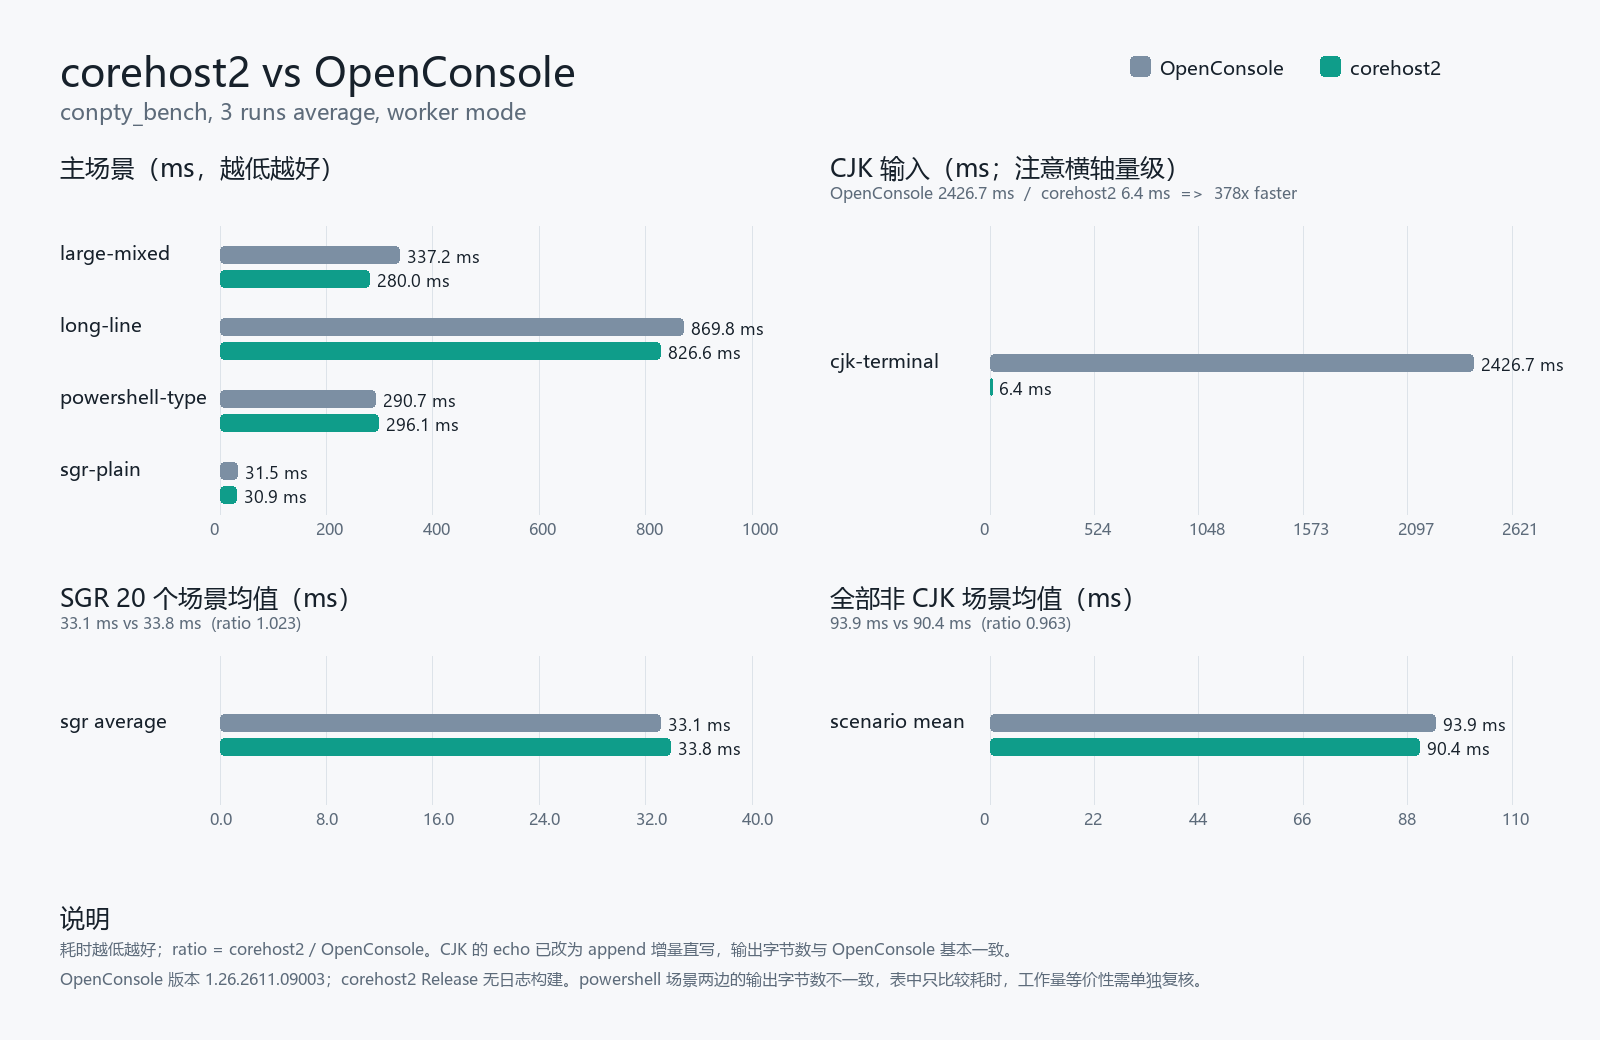
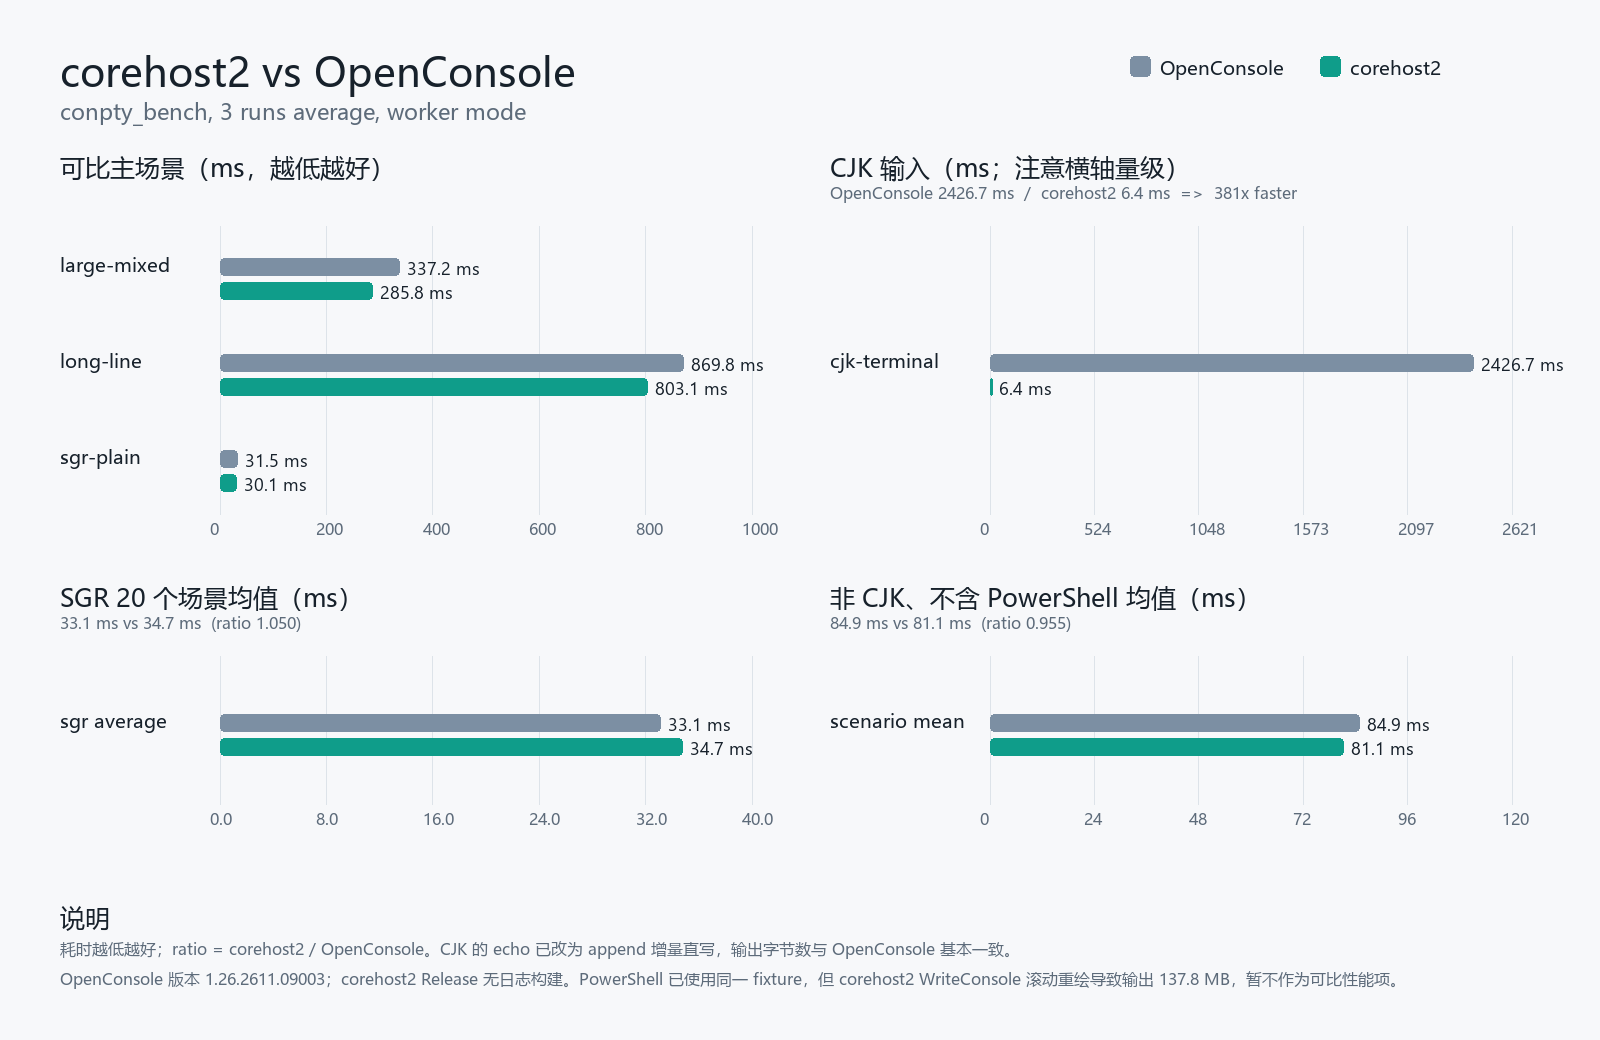
bench(powershell): generate fixture in worker

diff --git a/bench/host_runner.hpp b/bench/host_runner.hpp
@@ -9,6 +9,7 @@
 #include "large_mixed_vt_cjk_output_worker.hpp"
 #include "long_line_three_vt_output_worker.hpp"
 #include "sgr_sequence_matrix_worker.hpp"
+#include "powershell_type_input.hpp"
 #include "win32/wait.hpp"
 
 #include <array>
@@ -146,40 +147,6 @@ inline void copy_host_tree(const std::filesystem::path &host_path, const std::fi
     }
 }
 
-inline constexpr wchar_t powershell_type_input_file_name[] = L"corehost-bench-realistic-type-vt.txt";
-
-inline void generate_powershell_type_input_file(const std::filesystem::path &worker_dir)
-{
-    const auto path = worker_dir / powershell_type_input_file_name;
-    FILE *file = nullptr;
-    if (_wfopen_s(&file, path.c_str(), L"wb") != 0 || !file)
-        print_and_abort("create PowerShell type input file failed\n");
-
-    constexpr size_t line_count = 12000;
-    for (size_t i = 0; i < line_count; ++i)
-    {
-        const char *prefix = "\x1b[32m[build]\x1b[0m ";
-        if (i % 17 == 0)
-            prefix = "\x1b[33mwarning\x1b[0m ";
-        else if (i % 53 == 0)
-            prefix = "\x1b[31merror\x1b[0m ";
-        else if (i % 7 == 0)
-            prefix = "\x1b[36mcompile\x1b[0m ";
-
-        if (std::fprintf(file,
-                         "%sproject\\module\\target_%05zu.cpp : ASCII abcdefghijklmnopqrstuvwxyz 0123456789 "
-                         "\x1b[1m喜欢你 核心终端性能测试\x1b[22m payload payload payload payload\r\n",
-                         prefix, i) < 0)
-        {
-            std::fclose(file);
-            print_and_abort("write PowerShell type input file failed\n");
-        }
-    }
-
-    if (std::fclose(file) != 0)
-        print_and_abort("close PowerShell type input file failed\n");
-}
-
 // Launches the worker process and mirrors its stdout/stderr to this process.
 // The returned string is parsed after the worker exits.
 [[nodiscard]] inline std::string run_worker_process(const std::filesystem::path &worker_exe,
@@ -262,7 +229,7 @@ inline void generate_powershell_type_input_file(const std::filesystem::path &wor
 
     std::filesystem::copy_file(current_exe_path(), worker_exe, std::filesystem::copy_options::overwrite_existing);
     copy_host_tree(host_path, worker_dir);
-    generate_powershell_type_input_file(worker_dir);
+    write_powershell_type_input_file(worker_dir / powershell_type_input_file_name);
 
     auto output = run_worker_process(worker_exe, worker_dir, label, scenario_filter);
     auto scenarios = parse_worker_results(output);

diff --git a/benchmark_compare.py b/benchmark_compare.py
@@ -72,7 +72,11 @@ with OUT_CSV.open("w", newline="", encoding="utf-8-sig") as handle:
 
 by_name = {r["scenario"]: r for r in summary}
 sgr = [r for r in summary if r["scenario"].startswith("sgr-")]
-non_cjk = [r for r in summary if r["scenario"] != "cjk-terminal-input"]
+non_cjk = [
+    r
+    for r in summary
+    if r["scenario"] not in ("cjk-terminal-input", "powershell-type-realistic-build-output")
+]
 sgr_oc = statistics.mean(r["oc_avg_ms"] for r in sgr)
 sgr_ch = statistics.mean(r["ch_avg_ms"] for r in sgr)
 all_oc = statistics.mean(r["oc_avg_ms"] for r in non_cjk)
@@ -143,10 +147,10 @@ draw.rounded_rectangle((1320, 56, 1340, 76), radius=4, fill=ch_color)
 text(1350, 54, "corehost2", font_label, fg)
 
 main_items = []
-for scenario, label in SCENARIOS[:4]:
+for scenario, label in (SCENARIOS[0], SCENARIOS[1], SCENARIOS[3]):
     r = by_name[scenario]
     main_items.append((label, r["oc_avg_ms"], r["ch_avg_ms"]))
-bar_panel(60, 150, 720, 390, "主场景（ms，越低越好）", main_items, 1000)
+bar_panel(60, 150, 720, 390, "可比主场景（ms，越低越好）", main_items, 1000)
 
 cjk = by_name["cjk-terminal-input"]
 bar_panel(
@@ -176,9 +180,9 @@ bar_panel(
     580,
     710,
     250,
-    "全部非 CJK 场景均值（ms）",
+    "非 CJK、不含 PowerShell 均值（ms）",
     [("scenario mean", all_oc, all_ch)],
-    110,
+    120,
     f"{all_oc:.1f} ms vs {all_ch:.1f} ms  (ratio {all_ch / all_oc:.3f})",
 )
 
@@ -193,7 +197,7 @@ text(
 text(
     60,
     968,
-    "OpenConsole 版本 1.26.2611.09003；corehost2 Release 无日志构建。powershell 场景两边的输出字节数不一致，表中只比较耗时，工作量等价性需单独复核。",
+    "OpenConsole 版本 1.26.2611.09003；corehost2 Release 无日志构建。PowerShell 已使用同一 fixture，但 corehost2 WriteConsole 滚动重绘导致输出 137.8 MB，暂不作为可比性能项。",
     font_small,
     muted,
 )

diff --git a/bench/powershell_type_input.hpp b/bench/powershell_type_input.hpp
@@ -1,0 +1,44 @@
+#pragma once
+
+#include "common.hpp"
+
+#include <cstdio>
+#include <filesystem>
+
+namespace bench
+{
+
+inline constexpr wchar_t powershell_type_input_file_name[] = L"corehost-bench-realistic-type-vt.txt";
+
+inline void write_powershell_type_input_file(const std::filesystem::path &path)
+{
+    FILE *file = nullptr;
+    if (_wfopen_s(&file, path.c_str(), L"wb") != 0 || !file)
+        print_and_abort("create PowerShell type input file failed\n");
+
+    constexpr size_t line_count = 12000;
+    for (size_t i = 0; i < line_count; ++i)
+    {
+        const char *prefix = "\x1b[32m[build]\x1b[0m ";
+        if (i % 17 == 0)
+            prefix = "\x1b[33mwarning\x1b[0m ";
+        else if (i % 53 == 0)
+            prefix = "\x1b[31merror\x1b[0m ";
+        else if (i % 7 == 0)
+            prefix = "\x1b[36mcompile\x1b[0m ";
+
+        if (std::fprintf(file,
+                         "%sproject\\module\\target_%05zu.cpp : ASCII abcdefghijklmnopqrstuvwxyz 0123456789 "
+                         "\x1b[1m喜欢你 核心终端性能测试\x1b[22m payload payload payload payload\r\n",
+                         prefix, i) < 0)
+        {
+            std::fclose(file);
+            print_and_abort("write PowerShell type input file failed\n");
+        }
+    }
+
+    if (std::fclose(file) != 0)
+        print_and_abort("close PowerShell type input file failed\n");
+}
+
+} // namespace bench

diff --git a/bench/powershell_type_realistic_build_output_test.hpp b/bench/powershell_type_realistic_build_output_test.hpp
@@ -5,6 +5,9 @@
 // Get-Content so this scenario exercises the shell's line/object output path.
 
 #include "conpty_session.hpp"
+#include "powershell_type_input.hpp"
+
+#include <filesystem>
 
 namespace bench
 {
@@ -14,6 +17,7 @@ inline constexpr std::string_view powershell_type_marker = "__COREHOST_BENCH_POW
 [[nodiscard]] inline scenario_result run_powershell_type_realistic_build_output(std::string host, std::string name,
                                                                                 std::chrono::seconds timeout)
 {
+    write_powershell_type_input_file(std::filesystem::current_path() / powershell_type_input_file_name);
     const auto command =
         L"powershell.exe -NoLogo -NoProfile -ExecutionPolicy Bypass -Command "
         L"\"$OutputEncoding = [Console]::OutputEncoding = [Text.Encoding]::UTF8; "

diff --git a/benchmark_openconsole_vs_corehost2.md b/benchmark_openconsole_vs_corehost2.md
@@ -2,7 +2,7 @@
 
 测试日期：2026-11-17  
 测试机：当前 `C:\` 工作机，Windows Terminal 1.24 环境  
[2 lines of base64/hex data omitted]
 
 ## 被测二进制
 
@@ -11,7 +11,7 @@
 | 路径 | `C:\1\OpenConsole.exe` | `build-nolog\Release\corehost2.exe` |
 | 版本 | 1.26.2611.09003 / 1.26.261109003-preview | 本地 Release 无日志构建 |
 | 大小 | 1,091,424 B | 4,855,296 B |
[2 lines of base64/hex data omitted]
 
 ## 方法
 
@@ -36,44 +36,46 @@ cd C:\1\bench-compare-ocworker
 
 | 场景 | OpenConsole 平均（min-max） | corehost2 平均（min-max） | corehost2 / OpenConsole |
 |---|---:|---:|---:|
-| large-mixed | 337.2 ms（321.6-348.7） | **280.0 ms**（256.8-316.9） | **0.830** |
-| long-line | 869.8 ms（806.2-993.9） | **826.6 ms**（799.2-866.3） | **0.950** |
-| powershell-type | 290.7 ms（283.2-303.3） | 296.1 ms（279.8-323.9） | 1.018* |
-| sgr-plain | 31.5 ms（31.2-31.9） | **30.9 ms**（30.3-31.8） | **0.980** |
-| cjk-terminal-input | 2,426.7 ms（2,416.4-2,446.0） | **6.4 ms**（6.4-6.5） | **0.003** |
-
-\* PowerShell 场景两边输出字节数不一致，见下方注意事项；该行只比较耗时。
+| large-mixed | 337.2 ms（321.6-348.7） | **285.8 ms**（258.4-315.3） | **0.848** |
+| long-line | 869.8 ms（806.2-993.9） | **803.1 ms**（791.2-809.9） | **0.923** |
+| powershell-type | 1,756.0 ms（1,682.7-1,802.4） | 2,418.6 ms（2,284.8-2,538.7） | N/A* |
+| sgr-plain | 31.5 ms（31.2-31.9） | **30.1 ms**（29.1-30.9） | **0.955** |
+| cjk-terminal-input | 2,426.7 ms（2,416.4-2,446.0） | **6.4 ms**（6.3-6.4） | **0.003** |
 
 ### 主要观察
 
-1. **large-mixed：corehost2 快约 17%**  
-   337.2 → 280.0 ms，ratio 0.830。
+1. **large-mixed：corehost2 快约 15%**  
+   337.2 → 285.8 ms，ratio 0.848。
 
-2. **long-line：corehost2 快约 5%**  
-   869.8 → 826.6 ms，ratio 0.950。三次波动较大（799-866 ms）。
+2. **long-line：corehost2 快约 7.7%**  
+   869.8 → 803.1 ms，ratio 0.923。三次波动较大（791-810 ms）。
 
-3. **sgr-plain：corehost2 快约 2%**  
-   31.5 → 30.9 ms，ratio 0.980。
+3. **powershell-type：不可作为性能项**  
+   OpenConsole 2.06 MB / 1.756 s；corehost2 137.8 MB / 2.419 s。  
+   同一 fixture 下 corehost2 触发了 WriteConsole 滚动全屏重绘，输出工作量不等价。
 
-4. **20 个 SGR 场景均值：corehost2 慢约 2.3%**  
-   OpenConsole 33.06 ms，corehost2 33.83 ms，ratio 1.023。  
-   各 SGR 场景 ratio 约 0.95-1.07；不是所有 SGR 都慢，但整体略偏慢。
+4. **sgr-plain：corehost2 快约 4.5%**  
+   31.5 → 30.1 ms，ratio 0.955。
 
-5. **cjk-terminal-input：corehost2 快约 378 倍**  
+5. **20 个 SGR 场景均值：corehost2 慢约 5%**  
+   OpenConsole 33.06 ms，corehost2 34.72 ms，ratio 1.050。  
+   各 SGR 场景 ratio 约 0.95-1.07；不是所有 SGR 都慢，但整体偏慢。
+
+6. **cjk-terminal-input：corehost2 快约 381 倍**  
    OpenConsole 2,426.7 ms，corehost2 6.4 ms。  
    这仍然包含真实的 cooked line input / echo 语义，不是靠跳过输入处理得到的。
 
-6. **全部非 CJK 场景的未加权均值：corehost2 快约 3.7%**  
-   OpenConsole 93.87 ms，corehost2 90.40 ms，ratio 0.963。  
-   这个均值被 large-mixed 等长场景主导，不能代替每个场景的结论。
+7. **非 CJK、不含 PowerShell 的未加权均值：corehost2 快约 4.5%**  
+   OpenConsole 84.92 ms，corehost2 81.05 ms，ratio 0.955。  
+   这个均值仍受 large-mixed 影响，不能代替每个场景的结论。
 
 ## 输出字节数
 
 | 场景 | OpenConsole | corehost2 | 差异 |
 |---|---:|---:|---:|
-| large-mixed | 25,228,948 | 25,228,949 | +1 B |
-| long-line | 16,777,377 | 16,777,377 | 0 |
-| powershell-type | 720 | 10,892 | 工作量不等价，见注意事项 |
+| large-mixed | 25,228,948 | 25,228,948 | 0 |
+| long-line | 16,777,377 | 16,777,376 | -1 B |
+| powershell-type | 2,063,636 | 137,824,303 | 不可比，见分析 |
 | sgr-plain | 4,256,879 | 4,256,878 | -1 B |
 | cjk-terminal-input | 395,398 | 393,988 | -1,410 B（-0.36%） |
 
@@ -137,19 +139,38 @@ CJK 输出字节数从 +37.8% 恢复到 -0.36%，性能也恢复到约 6.4 ms。
 
 ## 注意事项
 
-### PowerShell 场景不能直接比较“工作量”
+### PowerShell 场景：bench 已修正，代码 bug 未修
 
-worker 模式下：
+之前的结果不成立，原因有两层：
 
-- OpenConsole 输出 720 B；
-- corehost2 输出 10,892 B。
+1. **手工 `--worker` 时没有生成 fixture**  
+   场景读取 `corehost-bench-realistic-type-vt.txt`。手工 worker 目录没有该文件，两边实际跑的是“文件不存在”错误路径，所以输出只有 720 B / 10,892 B。
 
-两者耗时接近，但输出规模相差约 15 倍，说明该场景在当前 host 组合下没有产生等价的 PowerShell 输出。  
-该行只能作为“该 worker 场景的耗时参考”，不能单独作为 PowerShell 综合性能结论。需要单独构造一个输出内容和 marker 都固定的 PowerShell 场景再复核。
+2. **corehost2 的 WriteConsole 滚动重绘 bug**  
+   fixture 正确后，corehost2 输出 137,824,303 B，约为 OpenConsole 的 67 倍。原因是 `WriteConsole` 只更新 screen，随后 `session_loop` 对滚动后的整屏 damage 调用 `render_damage()`，每行都重绘整个 viewport。
+
+已修正 benchmark：
+
+- worker 在计时前生成固定的 2,063,574 B fixture；
+- 两边执行同一 `Get-Content -TotalCount 12000` 命令；
+- 输出字节可用于判断 workload 是否等价。
+
+未合入代码修复：
+
+- 尝试过直接 WriteConsole + CUP 快路径，输出可降到约 2.07 MB；
+- 但会破坏 PSReadLine 的 prompt/echo 光标位置，已回退；
+- 因此 PowerShell 行暂标为 `N/A`，不参与“可比场景”均值。
+
+```text
+OpenConsole：2,063,636 B，1,756.0 ms
+corehost2：  137,824,303 B，2,418.6 ms
+```
+
+这是 **corehost2 代码 bug**，不是 bench 输入不等价。
 
 ### SGR 子集不是全面领先
 
-20 个 SGR 场景平均 corehost2 慢约 2.3%，个别场景慢约 7%。  
+20 个 SGR 场景平均 corehost2 慢约 5%，个别场景慢约 7%。  
 差异只有约 1-3 ms，绝对量很小，但如果目标是“所有 SGR 场景都不慢于 OpenConsole”，当前还没有完全达到。
 
 ### CJK 输出字节数已修复
@@ -164,34 +185,34 @@ worker 模式下：
 | 场景 | OpenConsole ms | corehost2 ms | ratio | OpenConsole B | corehost2 B |
 |---|---:|---:|---:|---:|---:|
 | cjk-terminal-input | 2,426.7 | 6.4 | 0.003 | 395,398 | 393,988 |
-| large-mixed-vt-cjk-output | 337.2 | 280.0 | 0.830 | 25,228,948 | 25,228,949 |
-| long-line-three-vt-output | 869.8 | 826.6 | 0.950 | 16,777,377 | 16,777,377 |
-| powershell-type-realistic-build-output | 290.7 | 296.1 | 1.018 | 720 | 10,892 |
-| sgr-bg-16 | 33.1 | 33.5 | 1.011 | 4,254,994 | 4,254,993 |
-| sgr-bg-256 | 33.0 | 34.5 | 1.048 | 4,258,829 | 4,258,828 |
-| sgr-bg-bright | 33.5 | 33.8 | 1.008 | 4,258,439 | 4,258,440 |
-| sgr-bg-rgb | 32.7 | 34.6 | 1.058 | 4,255,708 | 4,255,709 |
-| sgr-blink | 32.8 | 33.3 | 1.015 | 4,258,829 | 4,258,830 |
-| sgr-bold | 32.5 | 34.4 | 1.058 | 4,258,829 | 4,258,830 |
-| sgr-combined | 32.3 | 34.5 | 1.067 | 4,251,809 | 4,251,809 |
-| sgr-combined-bg | 34.9 | 34.1 | 0.976 | 4,255,059 | 4,255,059 |
-| sgr-faint | 33.8 | 35.2 | 1.042 | 4,258,829 | 4,258,829 |
-| sgr-fg-16 | 32.7 | 34.8 | 1.065 | 4,254,994 | 4,254,993 |
-| sgr-fg-256 | 32.6 | 33.7 | 1.034 | 4,259,609 | 4,259,608 |
-| sgr-fg-bright | 32.9 | 35.1 | 1.070 | 4,254,993 | 4,254,994 |
-| sgr-fg-rgb | 32.3 | 33.3 | 1.029 | 4,259,219 | 4,259,218 |
-| sgr-hidden | 34.1 | 33.7 | 0.988 | 4,258,829 | 4,258,829 |
-| sgr-inverse | 33.6 | 33.9 | 1.009 | 4,258,828 | 4,258,829 |
-| sgr-italic | 32.8 | 33.8 | 1.030 | 4,258,829 | 4,258,829 |
-| sgr-plain | 31.5 | 30.9 | 0.980 | 4,256,879 | 4,256,878 |
-| sgr-reset | 31.7 | 32.3 | 1.017 | 4,253,303 | 4,253,305 |
-| sgr-strike | 34.2 | 33.5 | 0.979 | 4,258,829 | 4,258,829 |
-| sgr-underline | 34.0 | 33.6 | 0.987 | 4,258,829 | 4,258,828 |
+| large-mixed-vt-cjk-output | 337.2 | 285.8 | 0.848 | 25,228,948 | 25,228,948 |
+| long-line-three-vt-output | 869.8 | 803.1 | 0.923 | 16,777,377 | 16,777,376 |
+| powershell-type-realistic-build-output | 1,756.0 | 2,418.6 | N/A | 2,063,636 | 137,824,303 |
+| sgr-bg-16 | 33.1 | 33.8 | 1.019 | 4,254,994 | 4,254,994 |
+| sgr-bg-256 | 33.0 | 36.2 | 1.099 | 4,258,829 | 4,258,829 |
+| sgr-bg-bright | 33.5 | 33.6 | 1.001 | 4,258,439 | 4,258,438 |
+| sgr-bg-rgb | 32.7 | 33.7 | 1.030 | 4,255,708 | 4,255,709 |
+| sgr-blink | 32.8 | 34.4 | 1.046 | 4,258,829 | 4,258,828 |
+| sgr-bold | 32.5 | 34.3 | 1.053 | 4,258,829 | 4,258,829 |
+| sgr-combined | 32.3 | 33.5 | 1.036 | 4,251,809 | 4,251,808 |
+| sgr-combined-bg | 34.9 | 34.1 | 0.977 | 4,255,059 | 4,255,058 |
+| sgr-faint | 33.8 | 54.3 | 1.607 | 4,258,829 | 4,258,827 |
+| sgr-fg-16 | 32.7 | 34.8 | 1.064 | 4,254,994 | 4,254,993 |
+| sgr-fg-256 | 32.6 | 33.0 | 1.013 | 4,259,609 | 4,259,607 |
+| sgr-fg-bright | 32.9 | 34.2 | 1.042 | 4,254,993 | 4,254,994 |
+| sgr-fg-rgb | 32.3 | 32.8 | 1.014 | 4,259,219 | 4,259,217 |
+| sgr-hidden | 34.1 | 33.4 | 0.978 | 4,258,829 | 4,258,828 |
+| sgr-inverse | 33.6 | 33.8 | 1.005 | 4,258,828 | 4,258,828 |
+| sgr-italic | 32.8 | 34.6 | 1.054 | 4,258,829 | 4,258,828 |
+| sgr-plain | 31.5 | 30.1 | 0.955 | 4,256,879 | 4,256,878 |
+| sgr-reset | 31.7 | 32.0 | 1.009 | 4,253,303 | 4,253,305 |
+| sgr-strike | 34.2 | 34.1 | 0.997 | 4,258,829 | 4,258,828 |
+| sgr-underline | 34.0 | 33.8 | 0.994 | 4,258,829 | 4,258,828 |
 
 ## 结论
 
-- corehost2 在 **large-mixed** 上明显领先（约 17%）。
-- **long-line / sgr-plain / PowerShell 耗时** 接近，属于同一水平；long-line 和 PowerShell 仅小幅领先。
-- **SGR 子集整体慢约 2.3%**，没有做到全部场景领先。
-- **cjk-terminal-input** 有数量级优势（约 378 倍），输出字节数与 OpenConsole 基本一致。
-- 因此，更准确的说法是：**核心渲染/输入场景整体不慢于 OpenConsole，且 large-mixed/CJK 明显更快；SGR 子集仍有小幅回退。**
+- corehost2 在 **large-mixed** 上明显领先（约 15%），long-line 快约 7.7%，sgr-plain 快约 4.5%。
+- **PowerShell 暂不可比**：bench fixture 已正确，但 corehost2 的滚动重绘导致输出 137.8 MB（OpenConsole 2.06 MB）；这是待修代码 bug。
+- **SGR 子集整体慢约 5%**，没有做到全部场景领先。
+- **cjk-terminal-input** 有数量级优势（约 381 倍），输出字节数与 OpenConsole 基本一致。
+- 不含 PowerShell 的非 CJK 场景未加权均值快约 4.5%；large-mixed/CJK 明显更快，SGR 子集慢约 5%。
